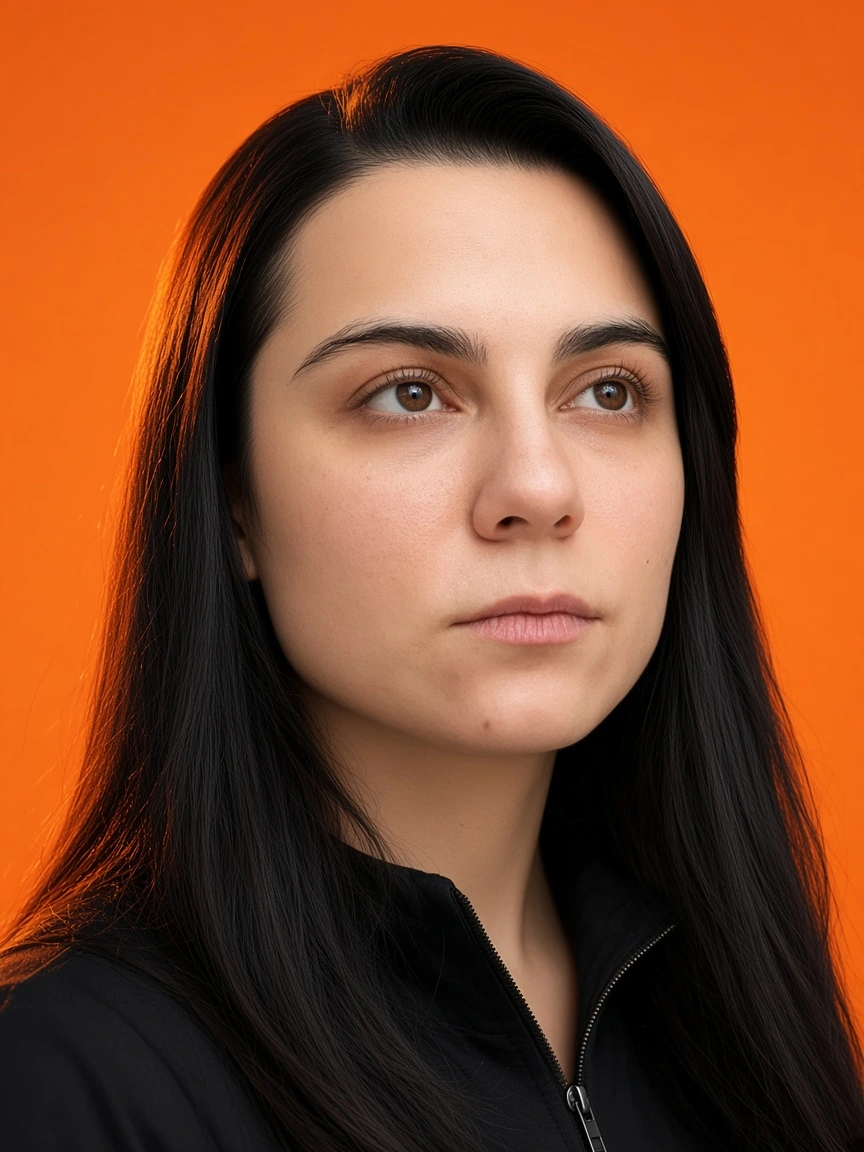
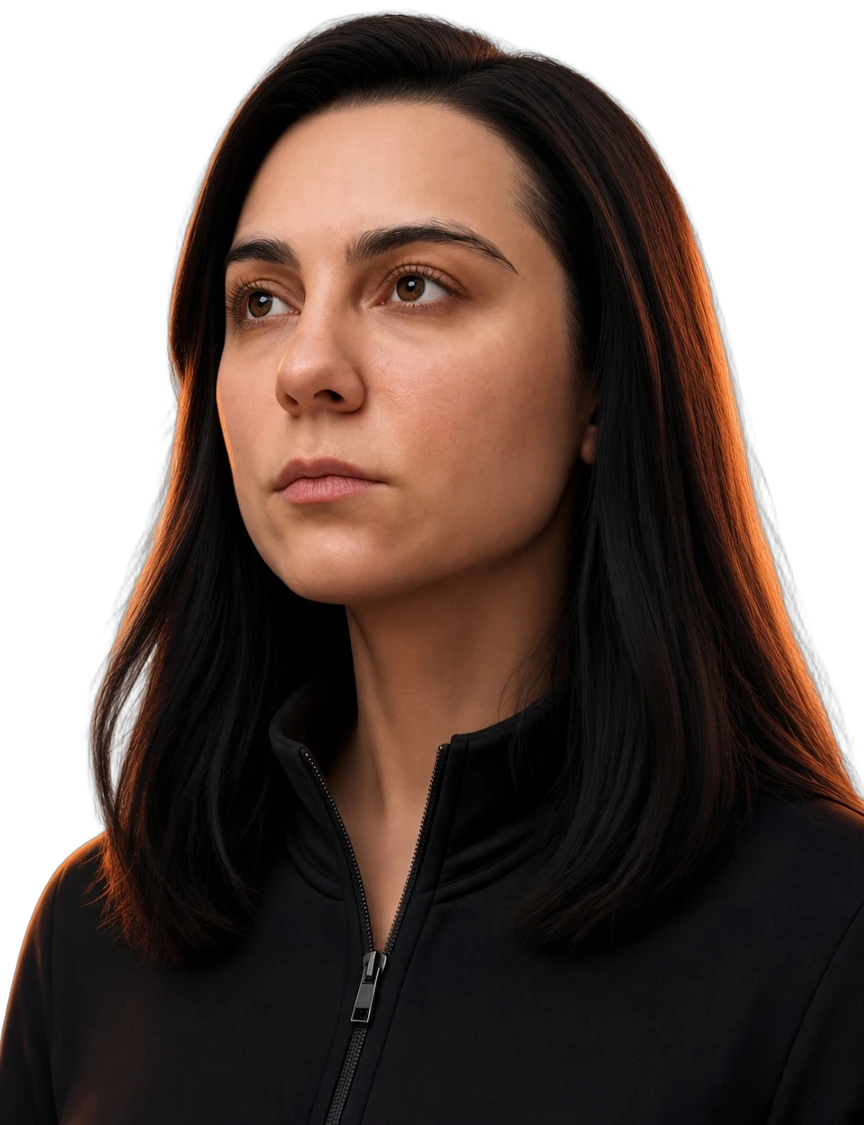
Place the hero bust as a transparent cutout with a red type glow
Remove the boxed photo plate so the portrait sits on the orange field, keep the previous left-facing pose without the chin mole, and add a blurred red circle under the headline that fades into the splash color.

diff --git a/src/App.css b/src/App.css
@@ -208,6 +208,26 @@ body {
   overflow: hidden;
 }
 
+.hero-splash-glow {
+  position: absolute;
+  left: max(1.5rem, calc((100% - min(1100px, calc(100% - 3rem))) / 2));
+  top: 46%;
+  width: min(34rem, 62vw);
+  height: min(34rem, 62vw);
+  transform: translate(-8%, -52%);
+  border-radius: 50%;
+  background: radial-gradient(
+    circle,
+    #c41010 0%,
+    #de2a12 28%,
+    #e95e14 62%,
+    rgba(233, 94, 20, 0) 72%
+  );
+  filter: blur(42px);
+  pointer-events: none;
+  z-index: 0;
+}
+
 .hero-splash-copy {
   position: absolute;
   left: 0;
@@ -630,6 +650,14 @@ section {
   .hero-splash-copy {
     top: 5.4rem;
     transform: none;
+  }
+
+  .hero-splash-glow {
+    top: 11rem;
+    left: 50%;
+    transform: translate(-50%, -30%);
+    width: min(28rem, 88vw);
+    height: min(28rem, 88vw);
   }
 
   .hero-splash h1 {

diff --git a/src/pages/Home.tsx b/src/pages/Home.tsx
@@ -73,6 +73,7 @@ function Home() {
   return (
     <>
       <section id="top" className="hero-splash">
+        <div className="hero-splash-glow" aria-hidden="true" />
         <div className="hero-splash-copy">
           <p className="eyebrow">UX/UI · продуктовый дизайнер · финтех</p>
           <h1>
